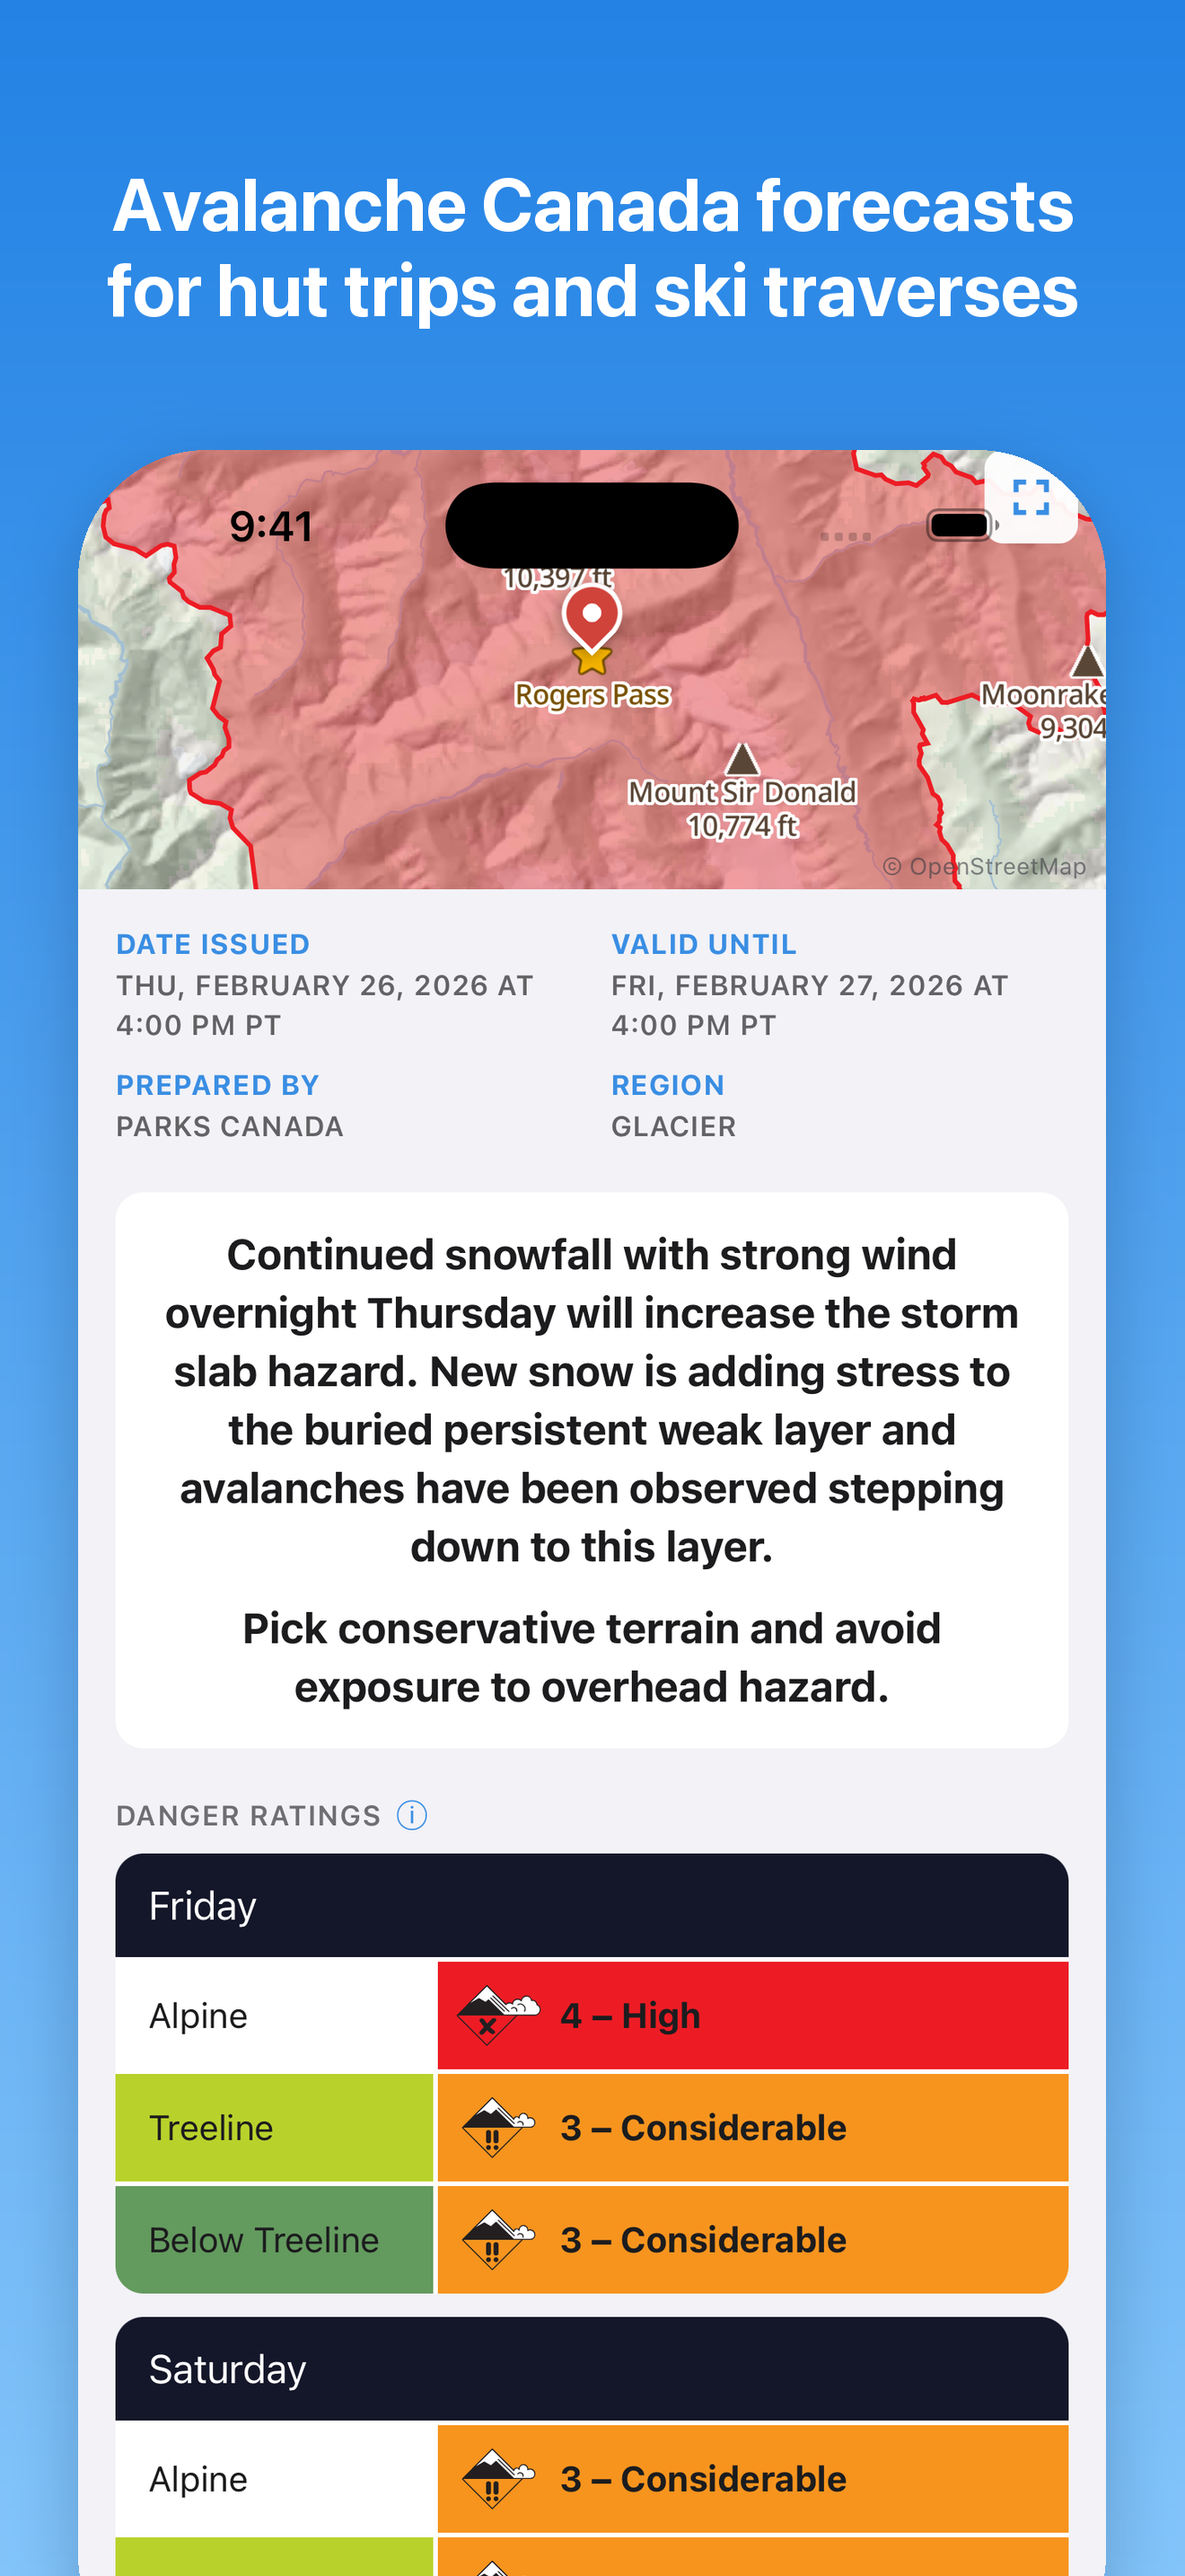
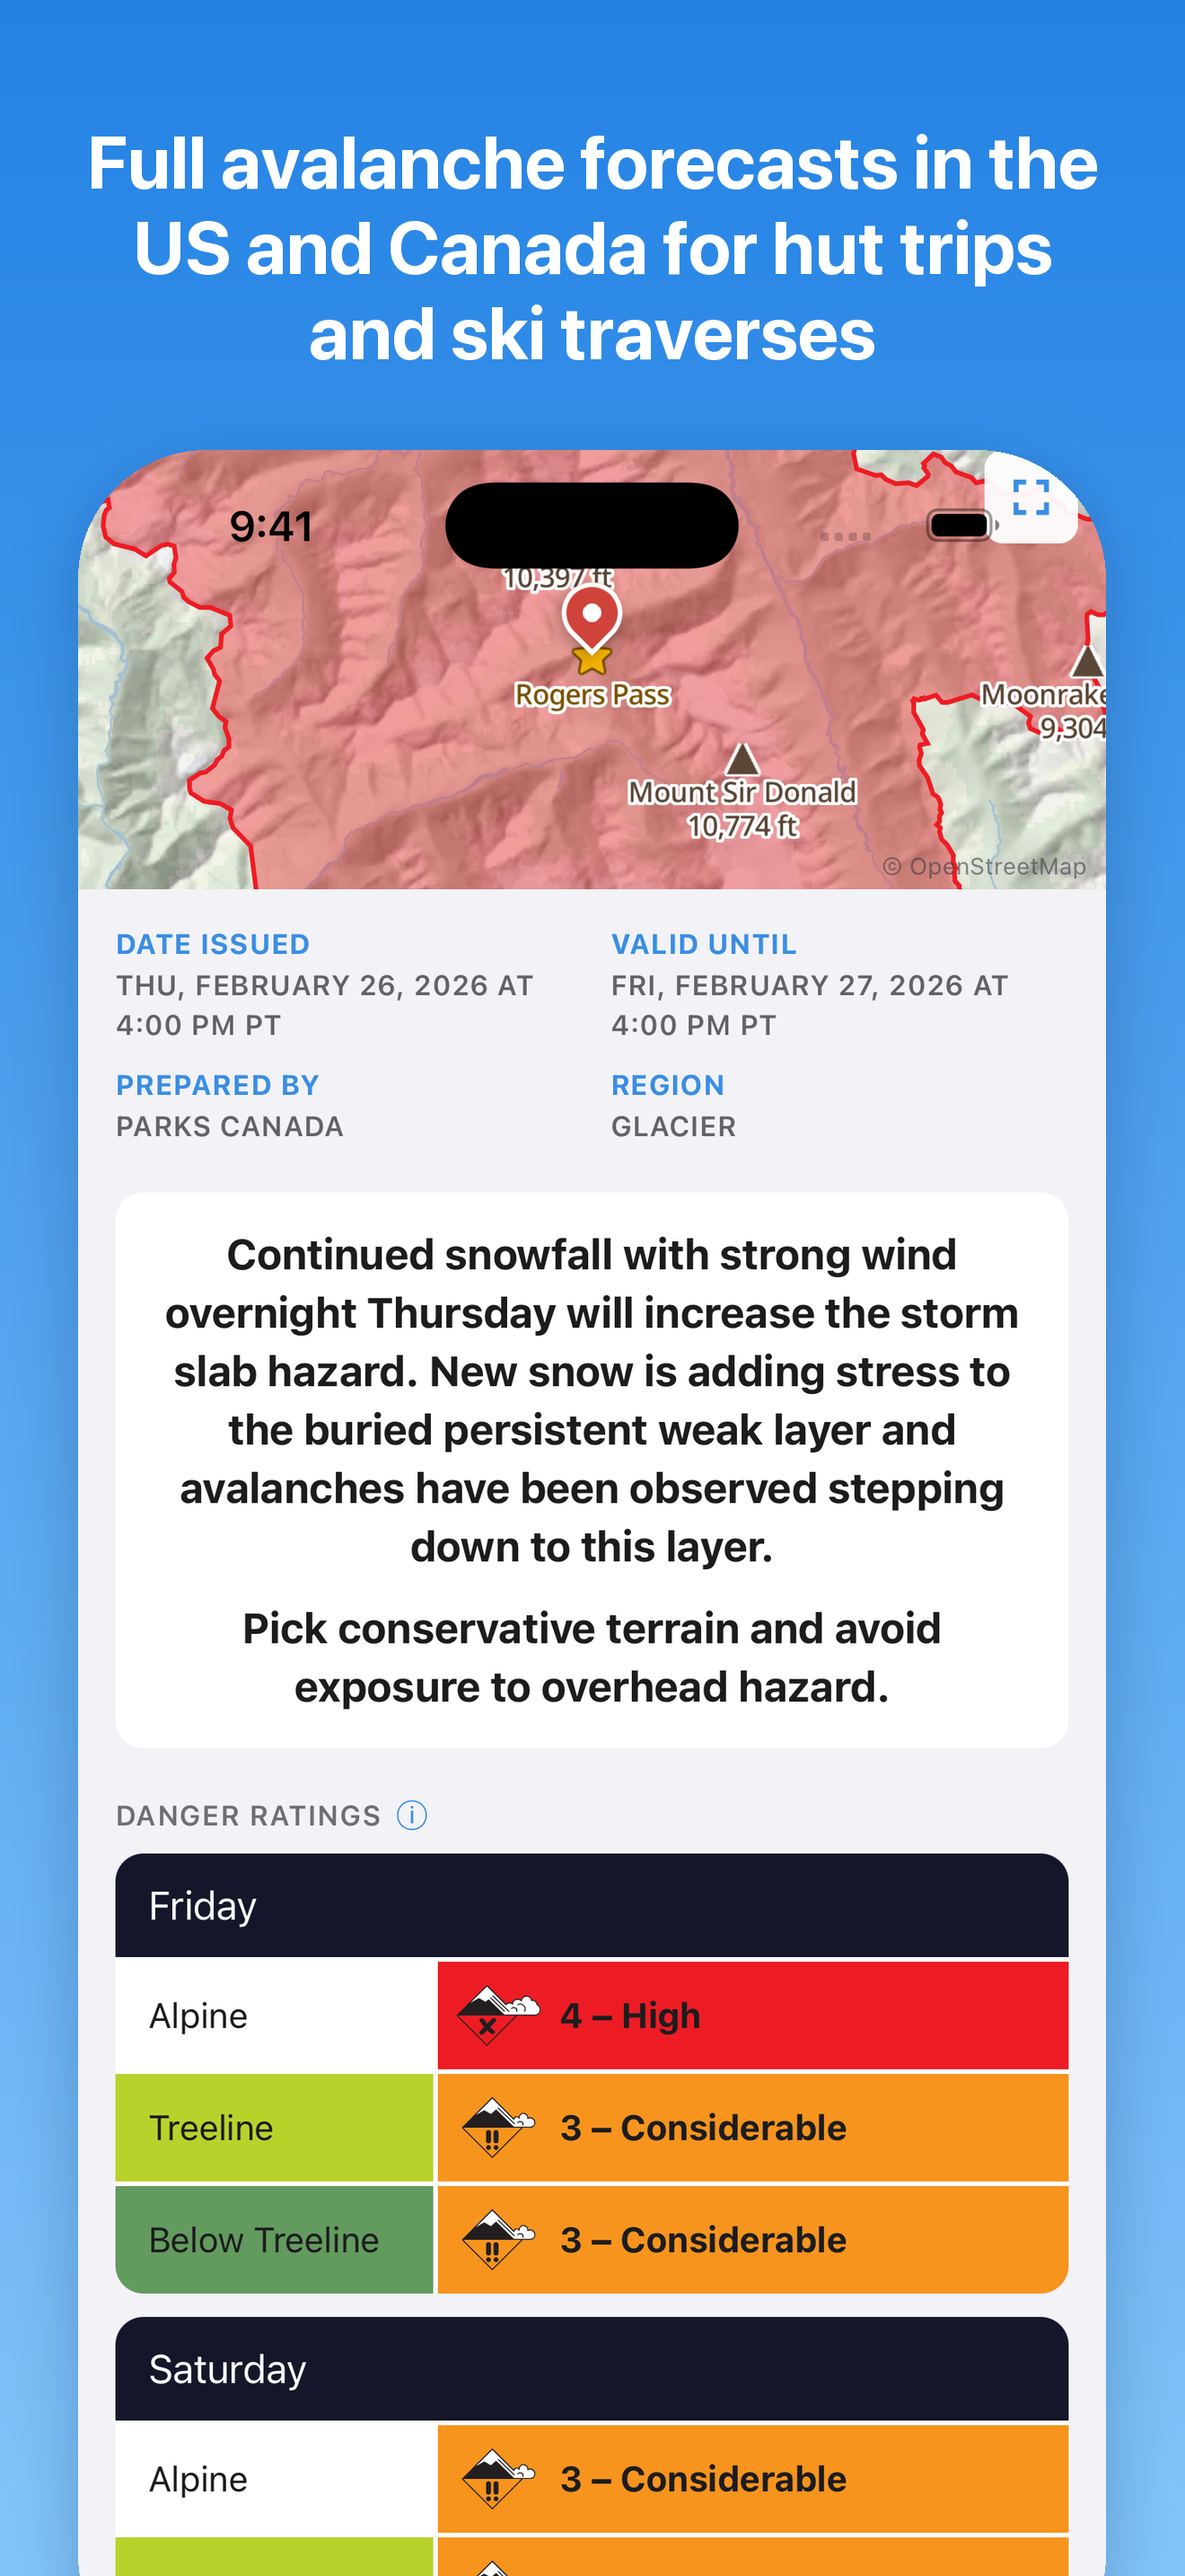
Add US support to avalanche screenshot caption

Changed region(s): [[0.0621, 0.031, 0.9318, 0.1552]]

diff --git a/packages/server/src/pages/landing.ts b/packages/server/src/pages/landing.ts
@@ -226,7 +226,7 @@ satellite internet, SMS, Garmin inReach, iPhone satellite messaging, and ZOLEO.<
   </figure>
   <figure>
     <img src="${img("shot-avalanche.jpg")}" width=750 height=1630 loading=lazy
-      alt="Avalanche Canada forecasts for hut trips and ski traverses">
+      alt="Full avalanche forecasts in the US and Canada for hut trips and ski traverses">
   </figure>
 </div>
 

diff --git a/packages/mobile/scripts/frame-screenshots.py b/packages/mobile/scripts/frame-screenshots.py
@@ -44,7 +44,7 @@ CAPTIONS_LIST = [
     ("cloud", "Avoid whiteouts and flat light with detailed cloud cover"),
     ("aqi", "Plan around wildfire smoke with AQI forecasts"),
     ("agreement", "Compare forecasts from NOAA, ECMWF, GEM, and ICON models"),
-    ("avalanche", "Avalanche Canada forecasts for hut trips and ski traverses"),
+    ("avalanche", "Full avalanche forecasts in the US and Canada for hut trips and ski traverses"),
 ]
 
 # The Google Play set uses the same shots in the same order; a caption here replaces the App

diff --git a/.agents/skills/screenshots/SKILL.md b/.agents/skills/screenshots/SKILL.md
@@ -64,7 +64,7 @@ Filename: agreement
 
 ## Avalanche
 
-Caption: "Avalanche Canada forecasts for hut trips and ski traverses"
+Caption: "Full avalanche forecasts in the US and Canada for hut trips and ski traverses"
 Location: Rogers Pass, Glacier National Park (51.30098,-117.51949), seeded as a favorite
 Forecast: Glacier, requested for February 27, 2026
 Open the Avalanche tab and tap the Rogers Pass entry under "Saved forecasts". The seed hides the "This forecast is no longer valid" banner.
